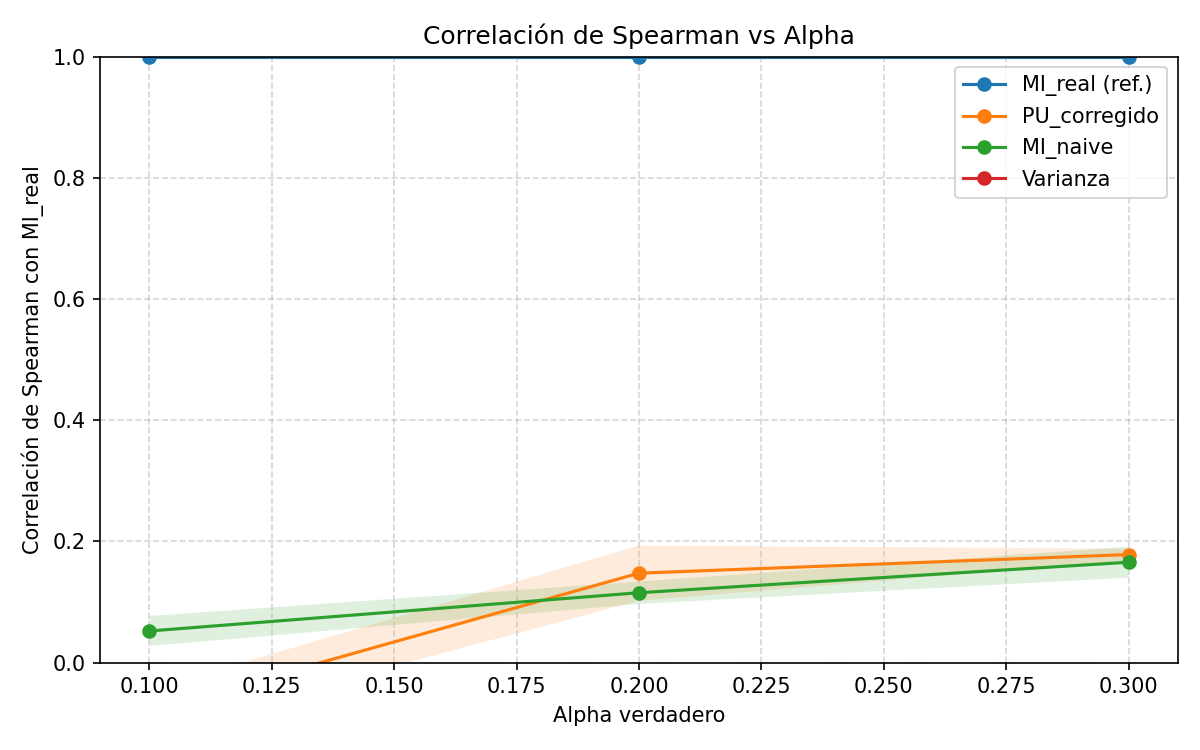
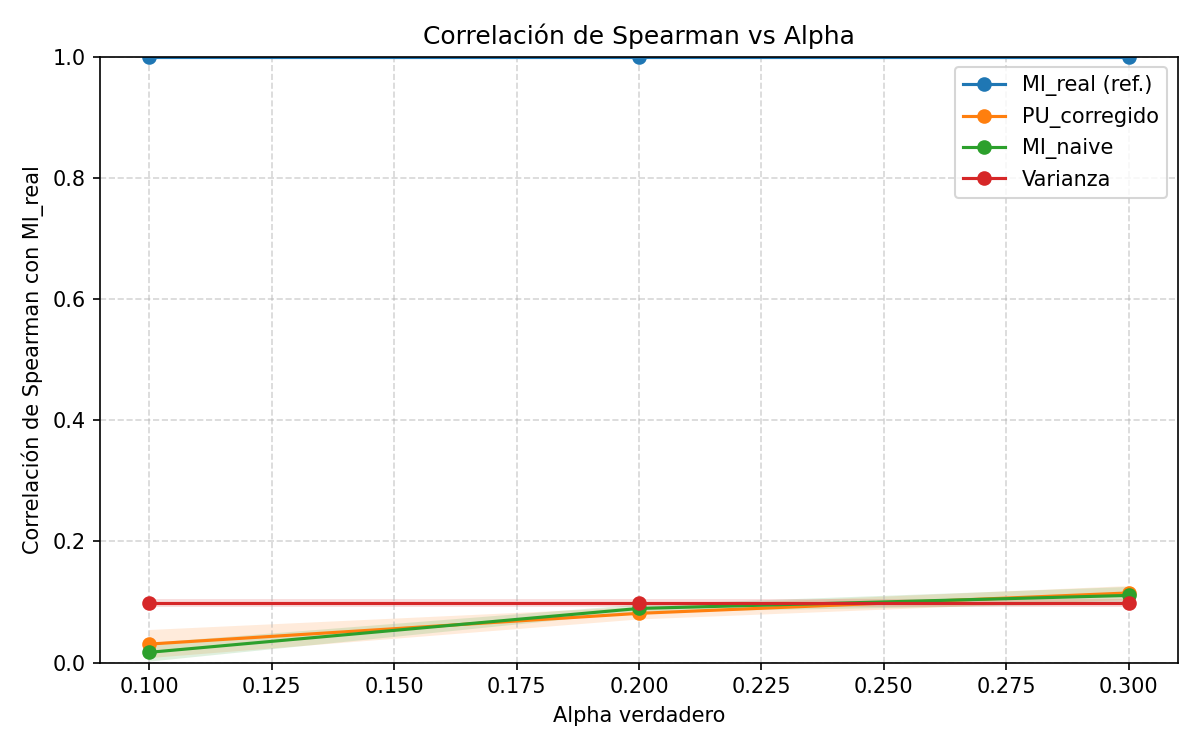
Microarrays teams

Changed region(s): [[0.0925, 0.7053, 0.9558, 0.8893]]

diff --git a/src/datasets.py b/src/datasets.py
@@ -90,6 +90,19 @@ _DATASETS: Dict[str, DatasetSpec] = {
         positive_label=1,
         description="Lung Cancer (Bhattacharjee et al. 2001) - ~181 samples, ~12000 genes (Adenocarcinoma vs Others)",
     ),
+    # Raw microarray MAT files
+    "cns": DatasetSpec(
+        kind="mat",
+        openml_name="CNS_microarray",
+        positive_label=1,
+        description="CNS Microarray - 60 samples, 7130 genes (Tumor classification)",
+    ),
+    "dlbcl": DatasetSpec(
+        kind="mat",
+        openml_name="DLBCL_microarray",
+        positive_label=1,
+        description="DLBCL Microarray - 47 samples, 4027 genes (Lymphoma subtype classification)",
+    ),
 }
 
 
@@ -313,6 +326,50 @@ def load_dataset(
             "kind": spec.kind,
             "description": spec.description,
             "positive_label": positive_label,
+        }
+        return X, y, feature_names, meta
+
+    if spec.kind == "mat":
+        import os
+        from scipy.io import loadmat
+        
+        cache_dir = os.path.join("data", "microarray_datasets")
+        mat_file = os.path.join(cache_dir, f"{spec.openml_name}.mat")
+        
+        if not os.path.exists(mat_file):
+            raise FileNotFoundError(f"MAT file not found: {mat_file}")
+        
+        # Load MATLAB file
+        mat_data = loadmat(mat_file)
+        
+        # Extract data matrix (should be 'data' key for CNS/DLBCL)
+        if 'data' not in mat_data:
+            raise ValueError(
+                f"No 'data' key in {mat_file}. Available keys: {[k for k in mat_data.keys() if not k.startswith('__')]}"
+            )
+        
+        data = np.asarray(mat_data['data'], dtype=np.float32)
+        
+        # Last column contains class labels (1 or 2)
+        # Features = all columns except last
+        X = data[:, :-1]
+        y_raw = data[:, -1].astype(int)
+        
+        # Convert labels from {1,2} to {0,1}
+        y = (y_raw == positive_label).astype(int) if positive_label in (1, 2) else y_raw - 1
+        
+        # Generate feature names
+        feature_names = np.array([f"gene_{i+1}" for i in range(X.shape[1])])
+        
+        print(f"  Loaded {spec.openml_name}: X shape {X.shape}, y shape {y.shape}")
+        print(f"  Class distribution: {np.bincount(y)}")
+        
+        meta = {
+            "dataset_id": dataset,
+            "kind": spec.kind,
+            "description": spec.description,
+            "positive_label": positive_label,
+            "label_mapping": f"{{2->0, {positive_label}->1}}",
         }
         return X, y, feature_names, meta
 

diff --git a/comparativa_clasificadores.py b/comparativa_clasificadores.py
@@ -183,20 +183,31 @@ def entrenar_y_evaluar_modelos(X_train, X_test, y_train, y_test, S_train, S_test
         'rec': recall_score(y_test, pred_real, zero_division=0),
     }
     
-    # 2. MODELO NAIVE (Asume U como negativos) 
+    # 2. MODELO NAIVE (Asume U como negativos)
     S_train_naive = S_train.copy()
     S_train_naive[S_train_naive == -1] = 0  # Unlabeled = Negative
     
-    modelo_naive = LogisticRegression(
-        max_iter=500,
-        solver='lbfgs',
-        class_weight=None,
-        random_state=seed
-    )
-    modelo_naive.fit(X_train_sel, S_train_naive)
+    # Verificar si hay ambas clases (importante para datasets pequeños)
+    unique_classes = np.unique(S_train_naive)
     
-    proba_naive = modelo_naive.predict_proba(X_test_sel)[:, 1]
-    pred_naive = modelo_naive.predict(X_test_sel)
+    if len(unique_classes) == 1:
+        # Si solo hay una clase, usar predicción basada en proporción de clases en test
+        # Este caso ocurre en datasets pequeños donde un fold puede no tener positivos etiquetados
+        class_prop = np.mean(y_test)  # Proporción de positivos en test
+        proba_naive = np.full(len(y_test), class_prop)
+        pred_naive = (proba_naive > 0.5).astype(int)
+    else:
+        # Entrenamiento normal si hay ambas clases
+        modelo_naive = LogisticRegression(
+            max_iter=500,
+            solver='lbfgs',
+            class_weight=None,
+            random_state=seed
+        )
+        modelo_naive.fit(X_train_sel, S_train_naive)
+        
+        proba_naive = modelo_naive.predict_proba(X_test_sel)[:, 1]
+        pred_naive = modelo_naive.predict(X_test_sel)
     
     metricas['naive'] = {
         'auc': roc_auc_score(y_test, proba_naive),

diff --git a/src/config_clasificador.py b/src/config_clasificador.py
@@ -3,16 +3,21 @@
 #   - OpenML: magic_telescope, ionosphere, spambase, sonar, miniboone, phoneme
 #   - Sklearn: breast_cancer
 #   - Libsvm: gas_sensor_drift
-#   - Microarray: colon_cancer, prostate_cancer, lung_cancer
-DATASET = "miniboone"  
-VALID_DATASETS = ['breast_cancer', 'ionosphere', 'sonar', 'colon_cancer', 'gas_sensor_drift', 'miniboone', 'spambase', 'magic_telescope', 'phoneme', 'lung_cancer', 'prostate_cancer']
+#   - Microarray (descargados): colon_cancer, prostate_cancer, lung_cancer
+#   - Microarray (locales .mat): cns, dlbcl
+DATASET = "dlbcl"  
+VALID_DATASETS = [
+    'breast_cancer', 'ionosphere', 'sonar', 'gas_sensor_drift', 'miniboone', 
+    'spambase', 'magic_telescope', 'phoneme',
+    'colon_cancer', 'cns', 'dlbcl'
+]
 assert DATASET in VALID_DATASETS, f"Dataset debe ser uno de: {VALID_DATASETS}"
 
                            
 # Parámetros generales
 N_SEEDS = [0, 1, 2, 3, 4]  
-ALPHAS = [0.5, 0.3, 0.2, 0.1, 0.05]
-N_KFOLDS = 5
+ALPHAS = [0.5, 0.3, 0.2]
+N_KFOLDS = 3
 NOISE_LEVEL = 0.0
 TOP_K = 10  # Número de features top-K para evaluar overlap/AUC
 USE_FEATURE_SELECTION = True  # Usar selección de features basada en MI

diff --git a/src/config.py b/src/config.py
@@ -9,8 +9,9 @@ SWEEP_MODE = 'alpha'  # 'alpha' o 'percent'
 #   - OpenML: magic_telescope, ionosphere, spambase, sonar, miniboone, phoneme
 #   - Sklearn: breast_cancer
 #   - Libsvm: gas_sensor_drift
-#   - Microarray: colon_cancer, prostate_cancer, lung_cancer (requiere download primero)
-DATASET = "prostate_cancer"
+#   - Microarray (GEO): colon_cancer, prostate_cancer, lung_cancer
+#   - MAT files: cns, dlbcl
+DATASET = "dlbcl"
 
 # Opcional: fuerza la etiqueta considerada como positiva en datasets OpenML
 # (si es None, se usa el valor por defecto del registry en src/datasets.py)
@@ -27,7 +28,7 @@ SWEEP_ALPHAS = [0.3, 0.2, 0.1]
 SWEEP_SEEDS = [0, 1, 2]
 
 # Método de estimación de alpha
-ALPHA_ESTIMATION_METHOD = 'mean'  # 'mean' o 'robust'
+ALPHA_ESTIMATION_METHOD = 'robust'  # 'mean' o 'robust'
 ALPHA_TOP_Q_PERCENT = 20  # percentil superior a considerar en método robusto
  
 # Parámetros modo sweep percent 
@@ -39,5 +40,5 @@ NOISE_LEVEL = 0
 # Parámetros generales
 TOP_K = 10  # Número de features top-K para evaluar overlap/AUC
 EXPERIMENT_NAME = DATASET
-RUN_NAME = "mean 3alphas (kfold 3) corregido"  # Nombre del run (cambia esto para diferenciar los runs en mlflow)
+RUN_NAME = "robust 3alphas (kfold 3) corregido"  # Nombre del run (cambia esto para diferenciar los runs en mlflow)
 